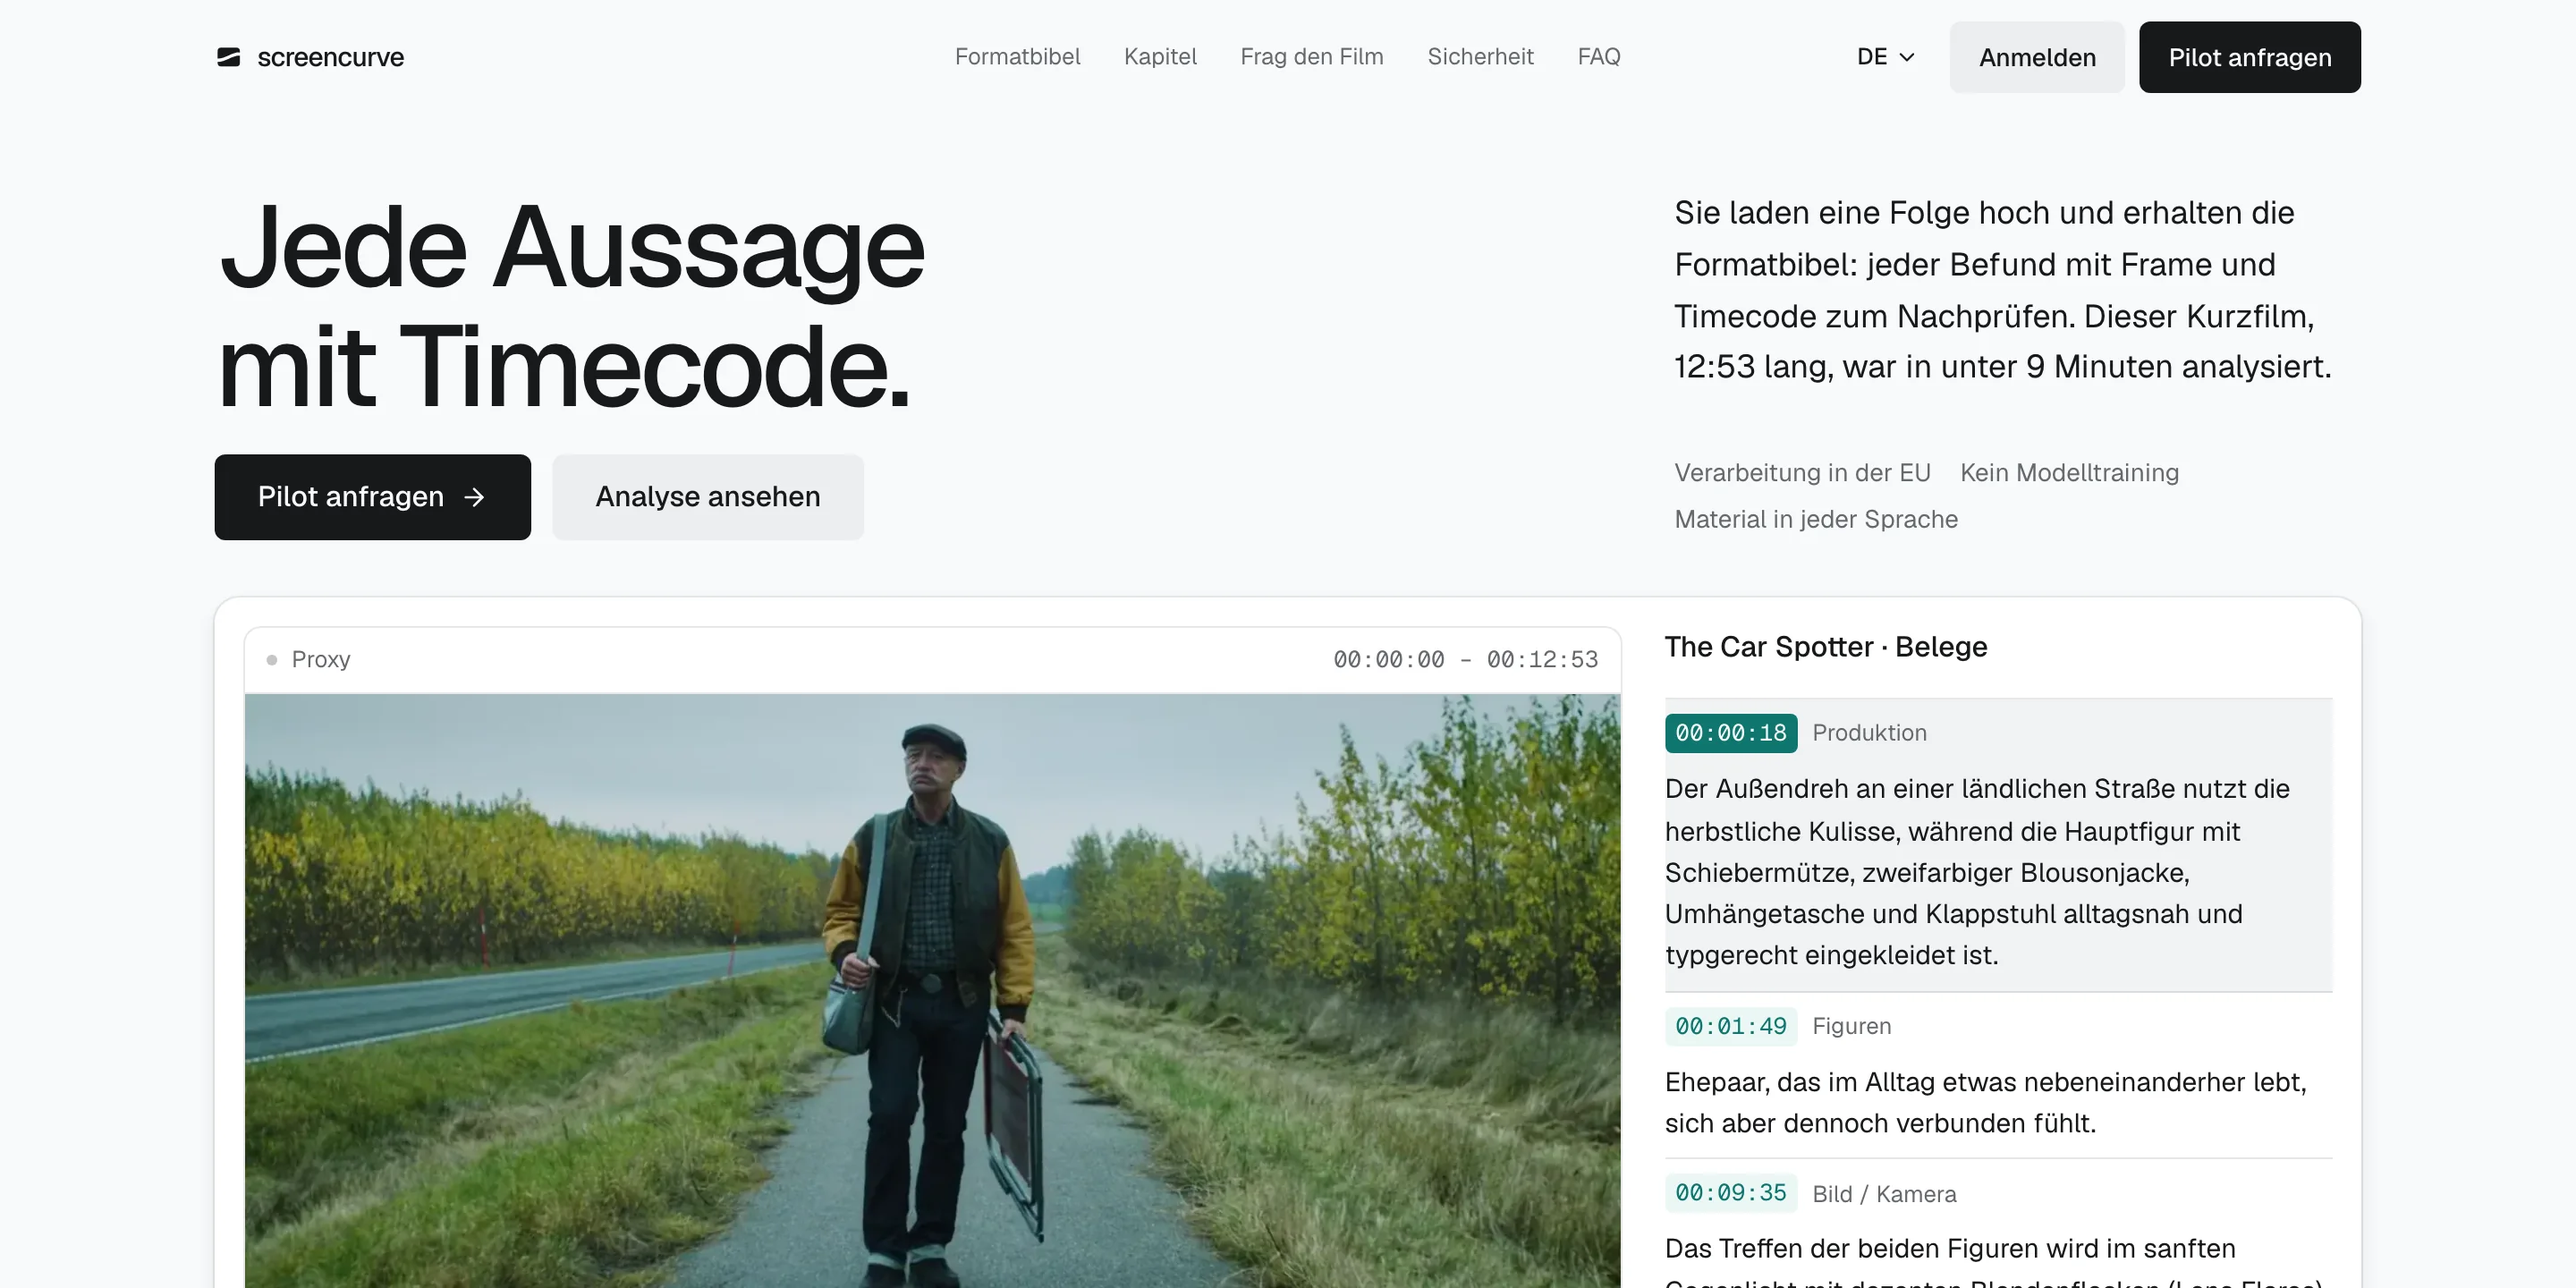
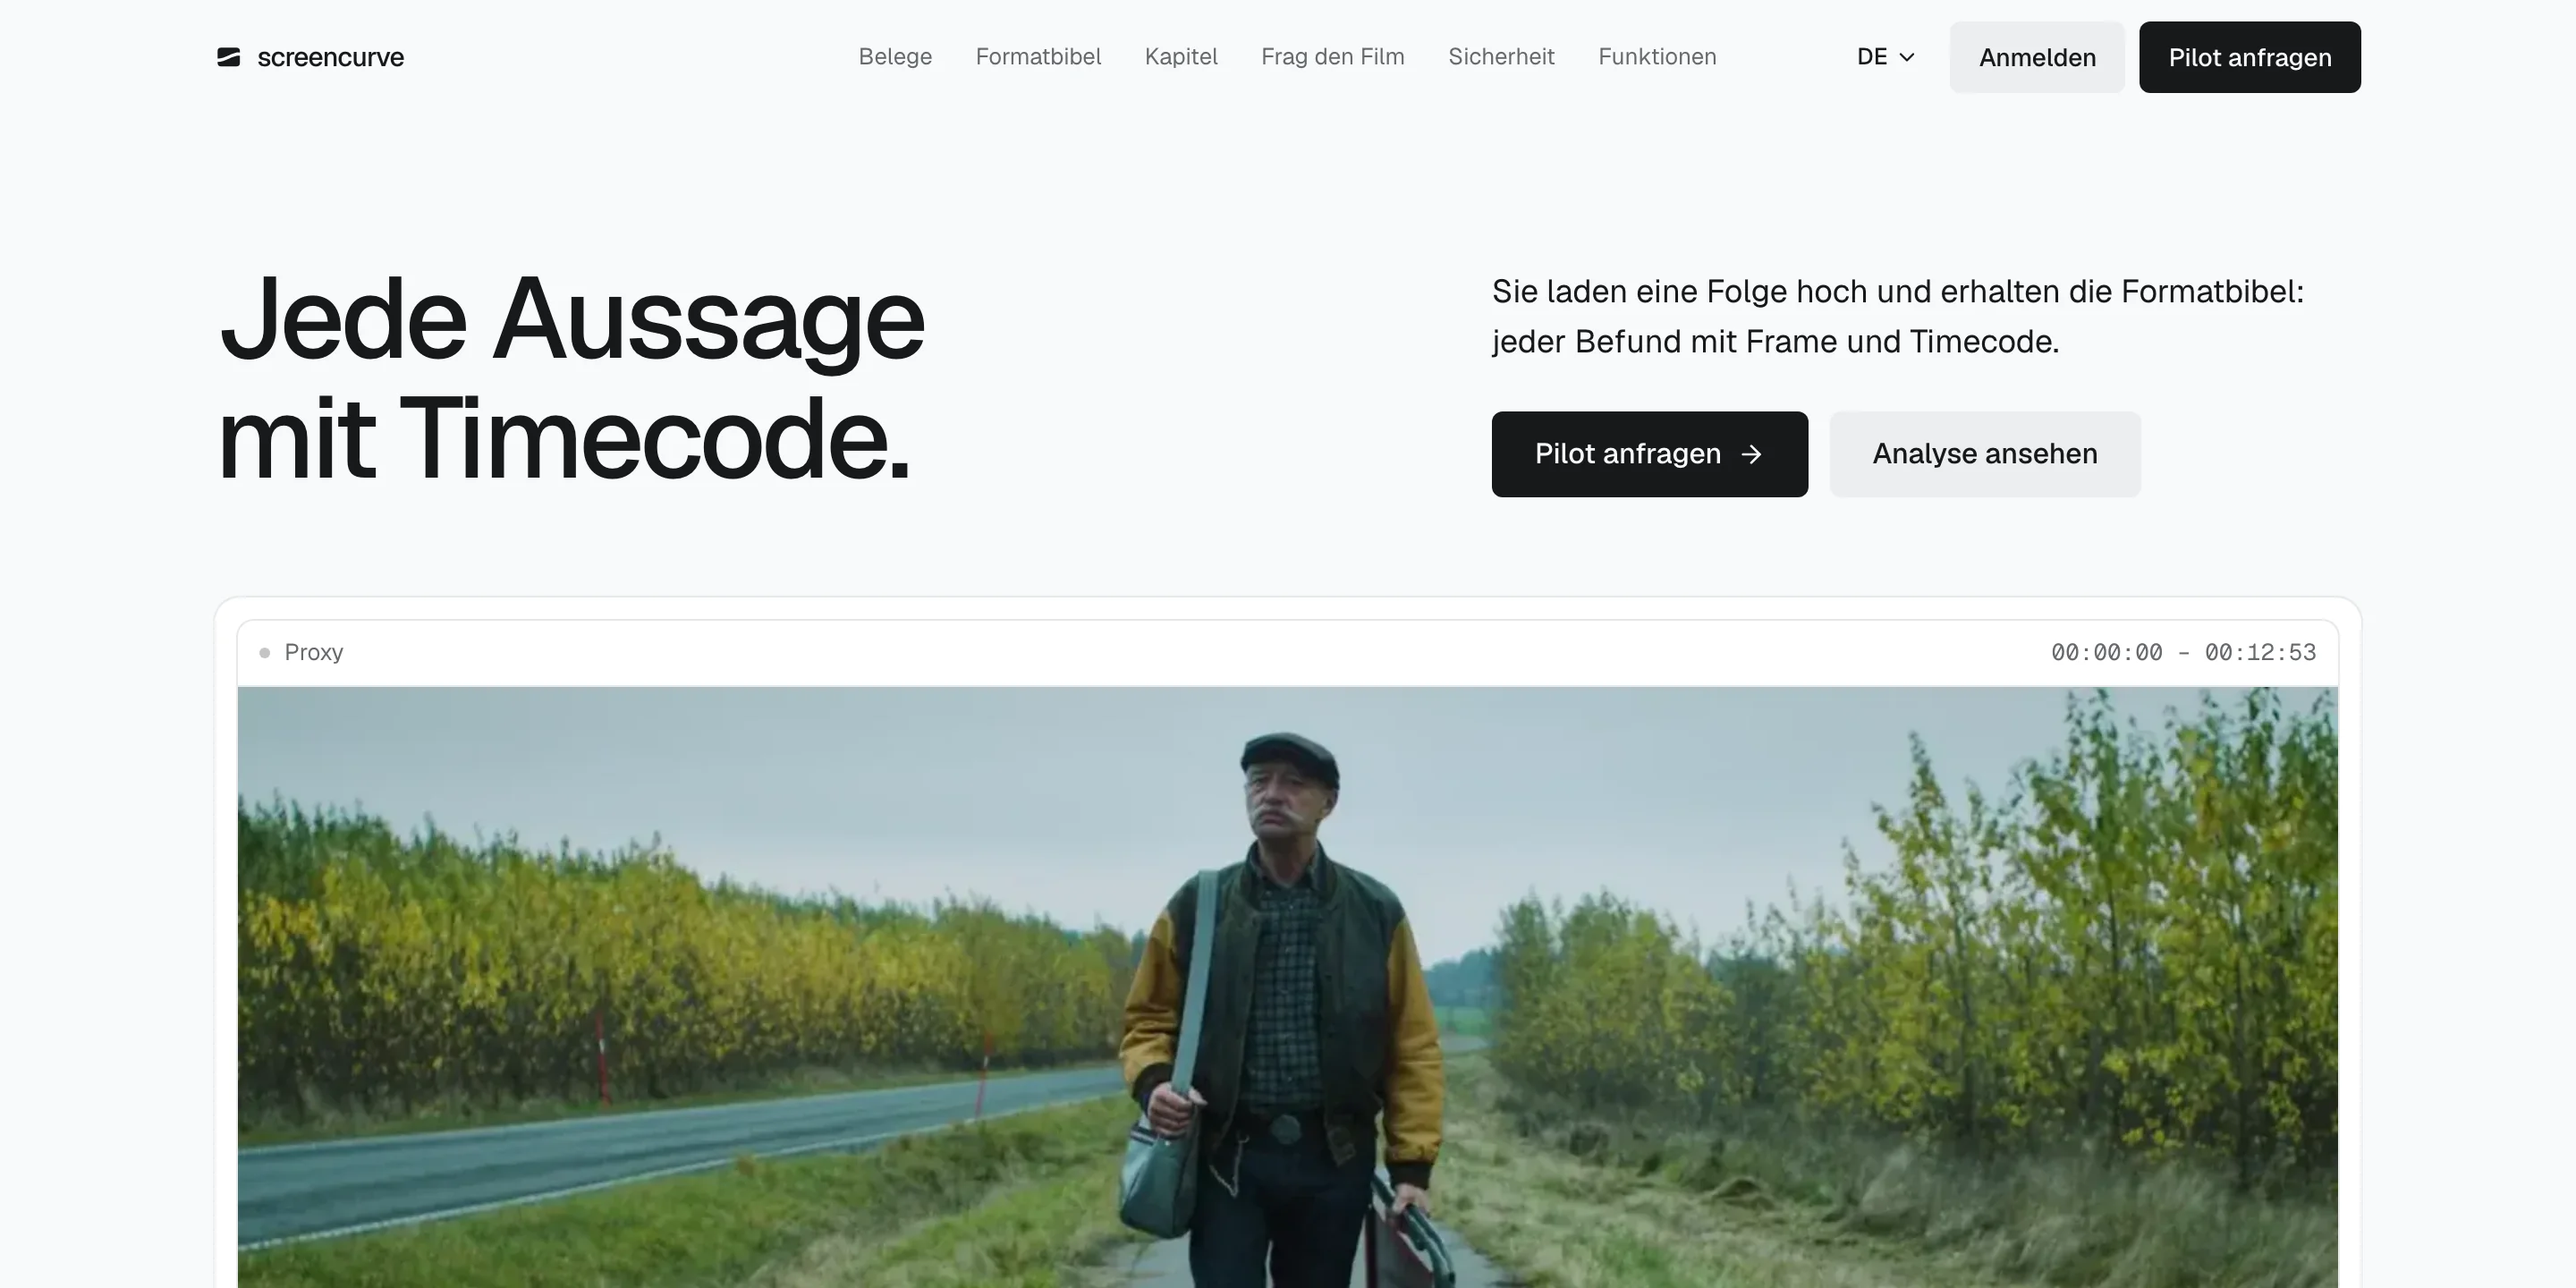
Recapture screencurve's landing after its redesign (WEB-583)
The new screencurve.com landing is live (screencurve-app #98, 289de928).
landing.webp (en) and landing-de.webp are captured again from production
the way the current pair was made: the top of the landing at 1440 x 720
CSS, 2x (2880 x 1440), WebP. Reduced motion shows the hero's own still,
the man on the lane at 00:00:18, instead of the looping film, so the
frame is settled. No consent banner appeared.

The pictures show the product's interface text and one frame of The Car
Spotter, credited under the home hero wall: no names, no Tears of Steel,
"screencurve" in lowercase. The alt texts stay: the hero wall's pictures
are part of its labelled image, and the case study names its cover by
client and title.

The cache tag moves to 20261116-landing, since the pictures keep their
names.

diff --git a/apps/web/src/data/asset-version.ts b/apps/web/src/data/asset-version.ts
@@ -2,7 +2,7 @@
  * picture is recaptured under the same name. `next/image` serves a local
  * picture only when its search matches a `localPatterns` entry, so
  * `next.config.ts` builds those entries from the same constant. */
-export const SCREENCURVE_VERSION = "20261116-chips";
+export const SCREENCURVE_VERSION = "20261116-landing";
 
 /** The paths `next.config.ts` lets through with the tag. */
 export const SCREENCURVE_PATTERNS = [
